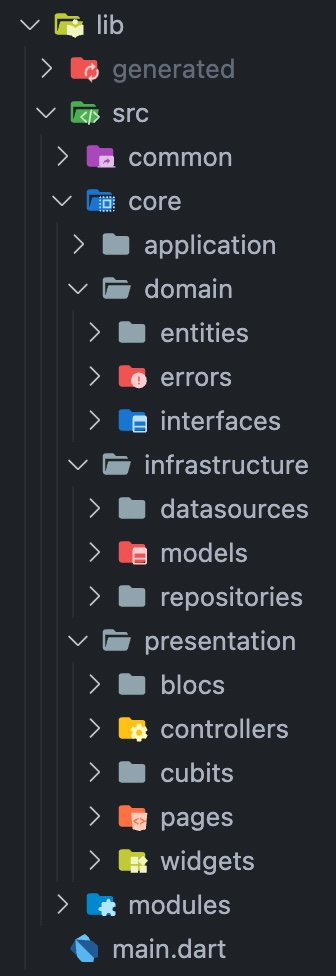
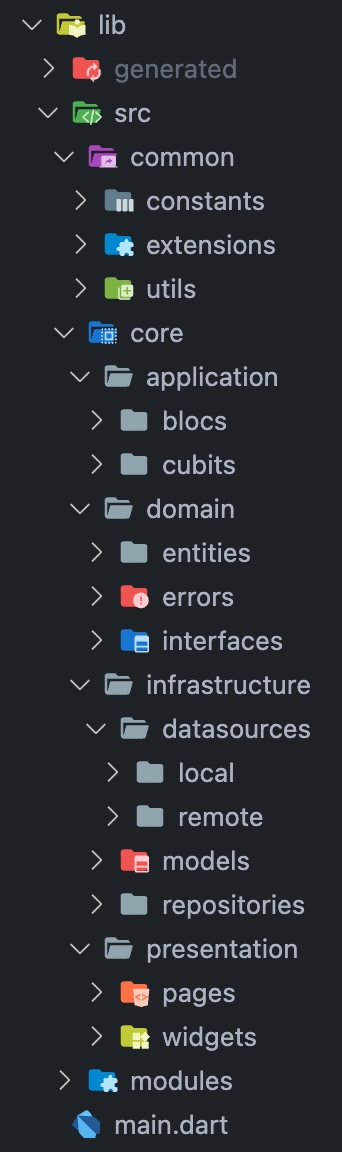
refactor: Storage

diff --git a/lib/src/core/infrastructure/datasources/local/storage.dart b/lib/src/core/infrastructure/datasources/local/storage.dart
@@ -1,9 +1,10 @@
 import 'package:hive_flutter/hive_flutter.dart';
 
-import '../../modules/auth/infrastructure/models/user_model.dart';
-import 'logger.dart';
+import '../../../../common/utils/logger.dart';
+import '../../../../modules/auth/infrastructure/models/user_model.dart';
 
 class _BoxKeys {
+  static const box = 'box';
   static const lang = 'lang';
   static const user = 'user';
   static const deviceId = 'device_id';
@@ -11,21 +12,21 @@ class _BoxKeys {
 }
 
 class Storage {
-  static final _box = Hive.box('box');
+  static final _box = Hive.box(_BoxKeys.box);
 
   static setup() async {
     await Hive.initFlutter();
     Hive.registerAdapter(UserModelAdapter());
     try {
-      await Hive.openBox('box');
+      await Hive.openBox(_BoxKeys.box);
     } catch (error) {
       logger.e(error);
       try {
-        await Hive.deleteBoxFromDisk('box');
+        await Hive.deleteBoxFromDisk(_BoxKeys.box);
       } catch (error) {
         logger.e(error);
       }
-      await Hive.openBox('box');
+      await Hive.openBox(_BoxKeys.box);
     }
   }
 

diff --git a/lib/main.dart b/lib/main.dart
@@ -7,9 +7,9 @@ import 'src/common/extensions/locale_x.dart';
 import 'src/common/utils/getit_utils.dart';
 import 'src/common/utils/global_bloc_observer.dart';
 import 'src/common/utils/logger.dart';
-import 'src/common/utils/storage.dart';
 import 'src/core/application/cubits/auth_cubit/auth/auth_cubit.dart';
 import 'src/core/application/cubits/lang_cubit/lang_cubit.dart';
+import 'src/core/infrastructure/datasources/local/storage.dart';
 import 'src/core/infrastructure/repositories/lang_repository.dart';
 import 'src/modules/app/app_router.dart';
 import 'src/modules/app/app_widget.dart';

diff --git a/lib/src/modules/auth/infrastructure/repositories/auth_repository.dart b/lib/src/modules/auth/infrastructure/repositories/auth_repository.dart
@@ -2,7 +2,7 @@ import 'package:dartz/dartz.dart';
 
 import '../../../../common/extensions/int_duration.dart';
 import '../../../../common/utils/logger.dart';
-import '../../../../common/utils/storage.dart';
+import '../../../../core/infrastructure/datasources/local/storage.dart';
 import '../../../../common/utils/validator.dart';
 import '../../../../core/domain/errors/auth_error.dart';
 import '../../domain/interfaces/auth_interface.dart';

diff --git a/lib/src/core/infrastructure/repositories/lang_repository.dart b/lib/src/core/infrastructure/repositories/lang_repository.dart
@@ -3,8 +3,8 @@ import 'dart:ui';
 
 import '../../../../generated/l10n.dart';
 import '../../../common/extensions/locale_x.dart';
-import '../../../common/utils/storage.dart';
 import '../../domain/interfaces/lang_interface.dart';
+import '../datasources/local/storage.dart';
 
 class LangRepository implements LangInterface {
   @override

diff --git a/README.md b/README.md
@@ -22,8 +22,8 @@ A few resources to get you started:
 - [Clean Architecture by Robert C. Martin (Uncle Bob)](https://blog.cleancoder.com/uncle-bob/2012/08/13/the-clean-architecture.html)
 - [Flutter Firebase & DDD Course](https://resocoder.com/category/tutorials/flutter/firebase-ddd/)
 
-![ddd](ddd.svg)
+![ddd](https://github.com/duc-ios/flutter_base/raw/main/ddd.svg)
 
-![dddclean_architecture_folders](ddd_folders.jpg)
+![ddd_folders](https://github.com/duc-ios/flutter_base/raw/main/ddd_folders.jpg)
 
 Copyright © 2022 Duc iOS
